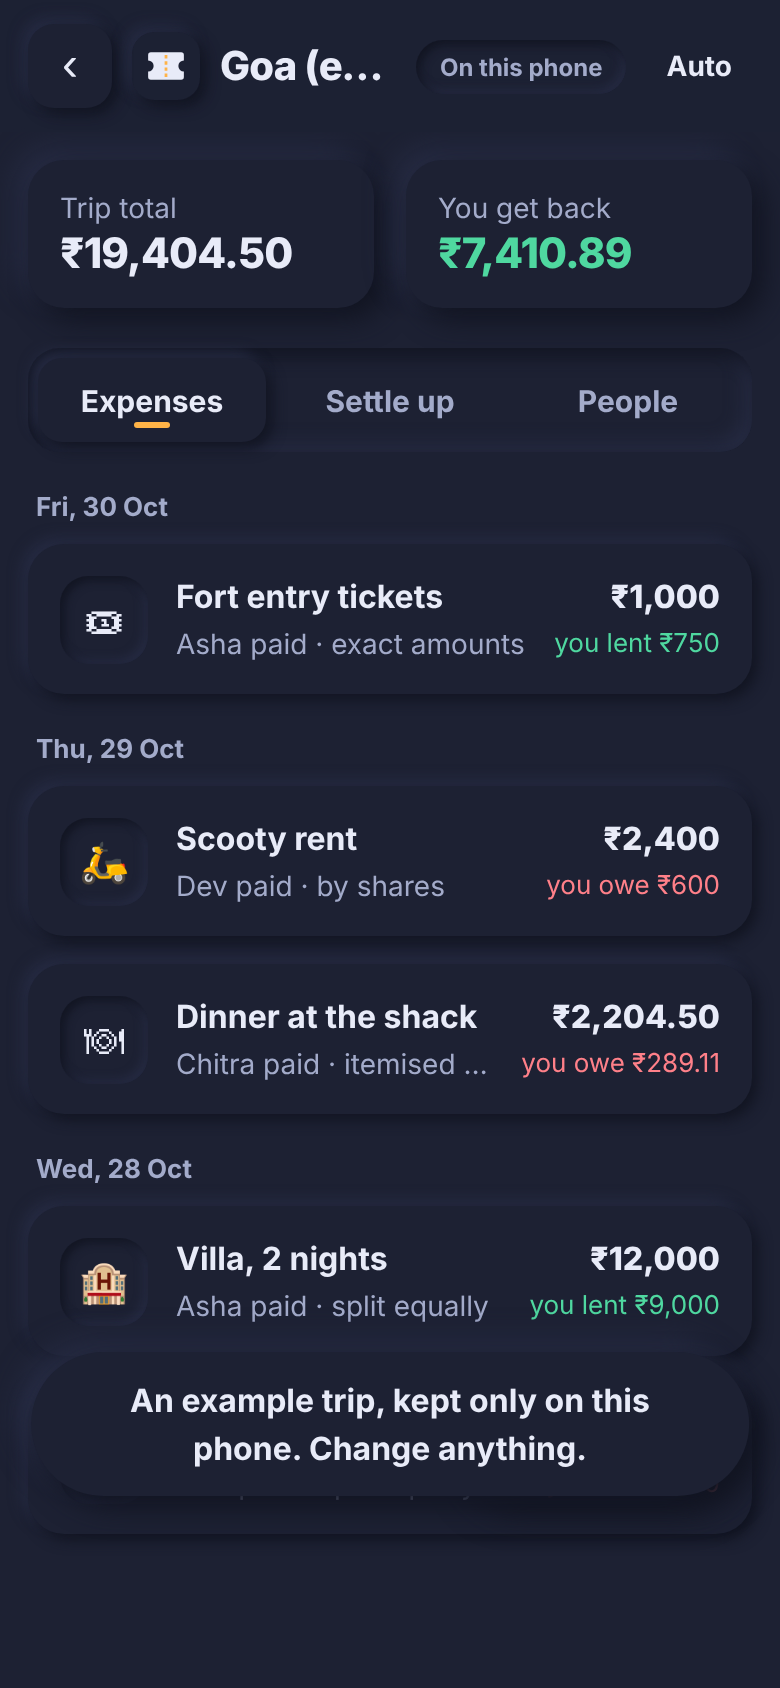
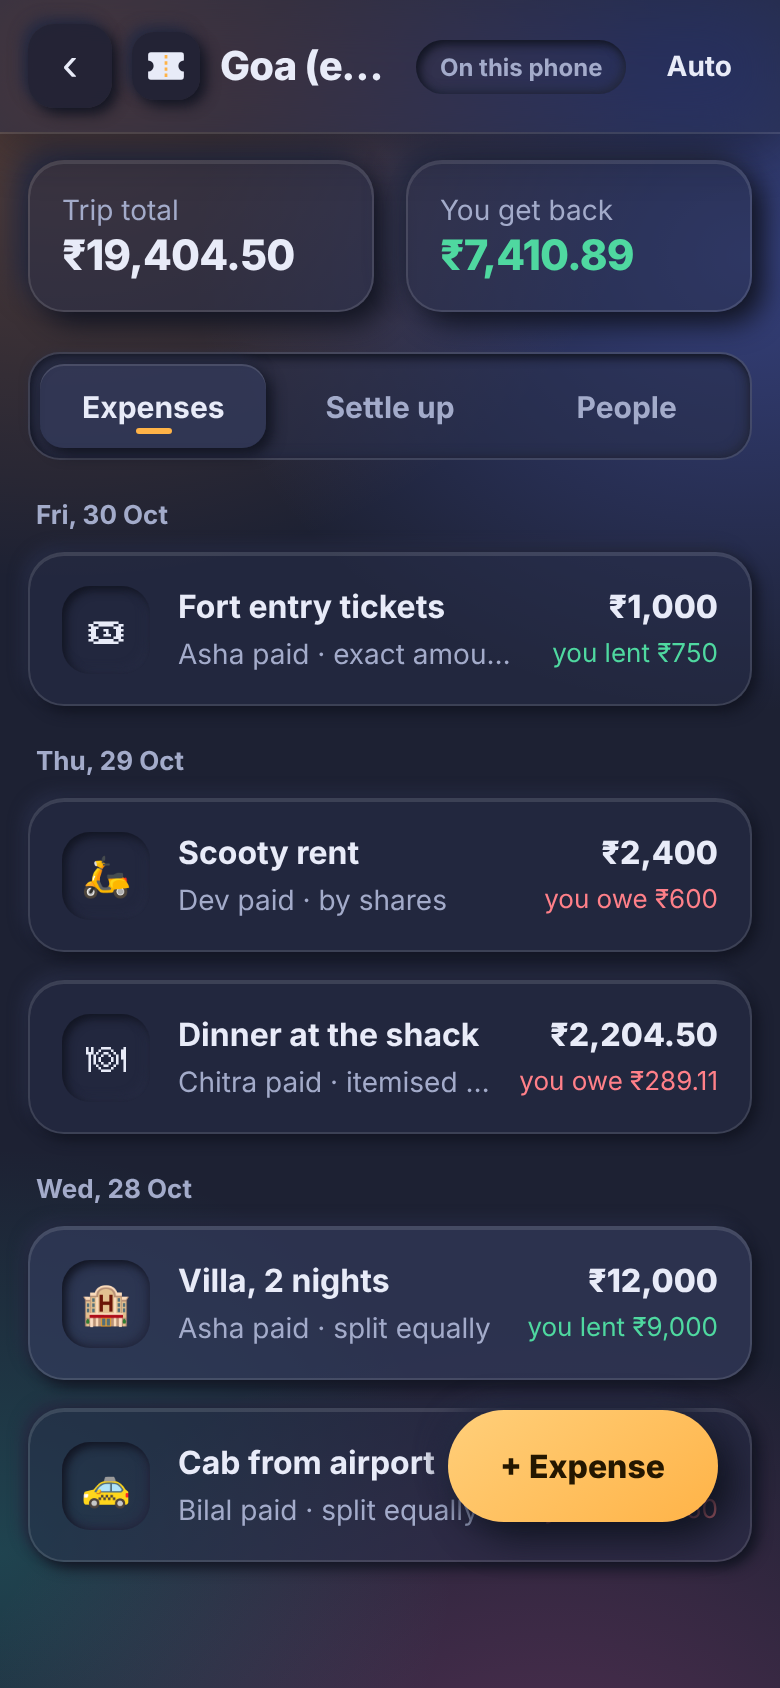
Glass + neumorphic look: frosted panels over a colour wash, soft raised controls, README and screenshots updated

diff --git a/web/style.css b/web/style.css
@@ -195,3 +195,31 @@ dialog::backdrop{background:rgba(20,26,50,.45);backdrop-filter:blur(4px);animati
 @media (prefers-reduced-motion:reduce){
   *,*::before,*::after{animation:none!important;transition:none!important;scroll-behavior:auto!important}
 }
+
+/* ---------- glass layer: frosted panels over a soft colour wash, with neumorphic controls on top ---------- */
+:root{--glass:rgba(255,255,255,.52);--glass-hi:rgba(255,255,255,.7);--glass-line:rgba(255,255,255,.75);--blur:blur(18px) saturate(1.5);
+  --wash:radial-gradient(60vmax 50vmax at 8% 4%,rgba(255,168,92,.5),transparent 60%),radial-gradient(55vmax 45vmax at 96% 14%,rgba(118,140,255,.42),transparent 60%),radial-gradient(60vmax 50vmax at 70% 100%,rgba(255,120,184,.32),transparent 60%),radial-gradient(45vmax 40vmax at 0% 92%,rgba(80,210,200,.3),transparent 60%)}
+@media (prefers-color-scheme:dark){:root:not([data-theme=light]){--glass:rgba(40,46,74,.5);--glass-hi:rgba(52,60,94,.65);--glass-line:rgba(255,255,255,.12);
+  --wash:radial-gradient(60vmax 50vmax at 8% 4%,rgba(255,150,70,.26),transparent 60%),radial-gradient(55vmax 45vmax at 96% 14%,rgba(96,120,255,.36),transparent 60%),radial-gradient(60vmax 50vmax at 70% 100%,rgba(230,90,170,.26),transparent 60%),radial-gradient(45vmax 40vmax at 0% 92%,rgba(40,190,180,.22),transparent 60%)}}
+:root[data-theme=dark]{--glass:rgba(40,46,74,.5);--glass-hi:rgba(52,60,94,.65);--glass-line:rgba(255,255,255,.12);
+  --wash:radial-gradient(60vmax 50vmax at 8% 4%,rgba(255,150,70,.26),transparent 60%),radial-gradient(55vmax 45vmax at 96% 14%,rgba(96,120,255,.36),transparent 60%),radial-gradient(60vmax 50vmax at 70% 100%,rgba(230,90,170,.26),transparent 60%),radial-gradient(45vmax 40vmax at 0% 92%,rgba(40,190,180,.22),transparent 60%)}
+body{background:var(--wash) fixed,var(--bg)}
+@keyframes drift{0%,100%{background-position:0 0,0 0,0 0,0 0}50%{background-position:3% 2%,-3% 3%,2% -3%,-2% -2%}}
+.bar{background:var(--glass);backdrop-filter:var(--blur);-webkit-backdrop-filter:var(--blur);box-shadow:0 1px 0 var(--glass-line),0 8px 24px color-mix(in srgb,var(--lo) 45%,transparent)}
+.cardbox,.ticket,.totals div,.exp,.net,.settle,.person,.line,.empty{background:var(--glass);backdrop-filter:var(--blur);-webkit-backdrop-filter:var(--blur);border:1px solid var(--glass-line);box-shadow:var(--out-s),inset 0 1px 0 var(--glass-line)}
+.cardbox,.ticket,.totals div{box-shadow:var(--out),inset 0 1px 0 var(--glass-line)}
+.exp:hover{background:var(--glass-hi)}
+.ticket::before,.ticket::after{background:transparent;border:1px solid var(--glass-line)}
+.ticket:active,.exp:active{box-shadow:var(--in-s)}
+.tabs{background:var(--glass);backdrop-filter:var(--blur);-webkit-backdrop-filter:var(--blur);border:1px solid var(--glass-line);box-shadow:var(--in-s)}
+.tabs button[aria-selected=true]{background:var(--glass-hi);box-shadow:var(--out-s),inset 0 1px 0 var(--glass-line)}
+.chip,.seg button,.btn:not(.primary):not(.ghost),.icon-btn,.mark{background:color-mix(in srgb,var(--bg) 80%,transparent)}
+.chip[aria-pressed=true],.seg button[aria-checked=true]{background:color-mix(in srgb,var(--accent) 34%,var(--bg))}
+.avatar.small-av{background:color-mix(in srgb,var(--bg) 70%,transparent)}
+.net .bar2{background:color-mix(in srgb,var(--bg) 55%,transparent)}
+dialog{background:var(--glass-hi);backdrop-filter:blur(26px) saturate(1.6);-webkit-backdrop-filter:blur(26px) saturate(1.6);border:1px solid var(--glass-line);box-shadow:0 24px 60px color-mix(in srgb,var(--lo) 80%,transparent),inset 0 1px 0 var(--glass-line)}
+dialog::backdrop{background:rgba(24,30,60,.38)}
+.toast{background:var(--glass-hi);backdrop-filter:var(--blur);-webkit-backdrop-filter:var(--blur);border:1px solid var(--glass-line)}
+.owed{background:color-mix(in srgb,var(--bg) 45%,transparent)}
+@media (min-width:700px) and (prefers-reduced-motion:no-preference){body{animation:drift 26s ease-in-out infinite}}
+@media (prefers-reduced-transparency:reduce){:root{--glass:var(--bg);--glass-hi:var(--bg)}}

diff --git a/web/index.html b/web/index.html
@@ -5,7 +5,7 @@
 <meta name="viewport" content="width=device-width, initial-scale=1, viewport-fit=cover">
 <meta http-equiv="Content-Security-Policy" content="default-src 'none'; script-src 'self'; style-src 'self'; img-src 'self' data:; connect-src https://odmazvhthsinaznoppcl.supabase.co wss://odmazvhthsinaznoppcl.supabase.co; form-action 'none'; base-uri 'none'">
 <meta name="color-scheme" content="light dark">
-<meta name="theme-color" content="#1a1f36">
+<meta name="theme-color" content="#e4e9f2">
 <meta name="referrer" content="no-referrer">
 <title>Trip Split</title>
 <meta name="description" content="Split trip expenses with friends, live. Equal, shares, percent, exact or itemised bills, and settle up over UPI. Expenses are encrypted on your phone.">

diff --git a/README.md b/README.md
@@ -16,6 +16,7 @@ Split trip expenses with friends, live. Add what everyone paid, and Trip Split w
 - **Pay on UPI.** If the person being paid has a UPI ID, "Pay with UPI" shows a QR for the exact amount and opens any UPI app. Mark it paid and the balances update for everyone.
 - **Works offline.** Changes are saved on your phone first and sent when you are back online.
 - **Group chat summary.** Copy or send on WhatsApp: who paid what and who pays whom.
+- **Soft glass look.** Frosted glass panels over a colour wash, with soft raised and pressed (neumorphic) buttons and inputs. Smooth entrance motion that switches off if your phone asks for reduced motion, and a plain solid fallback if it asks for reduced transparency.
 - **Light and dark mode.** Follows your phone, or choose with the button in the top bar.
 
 ## Privacy
